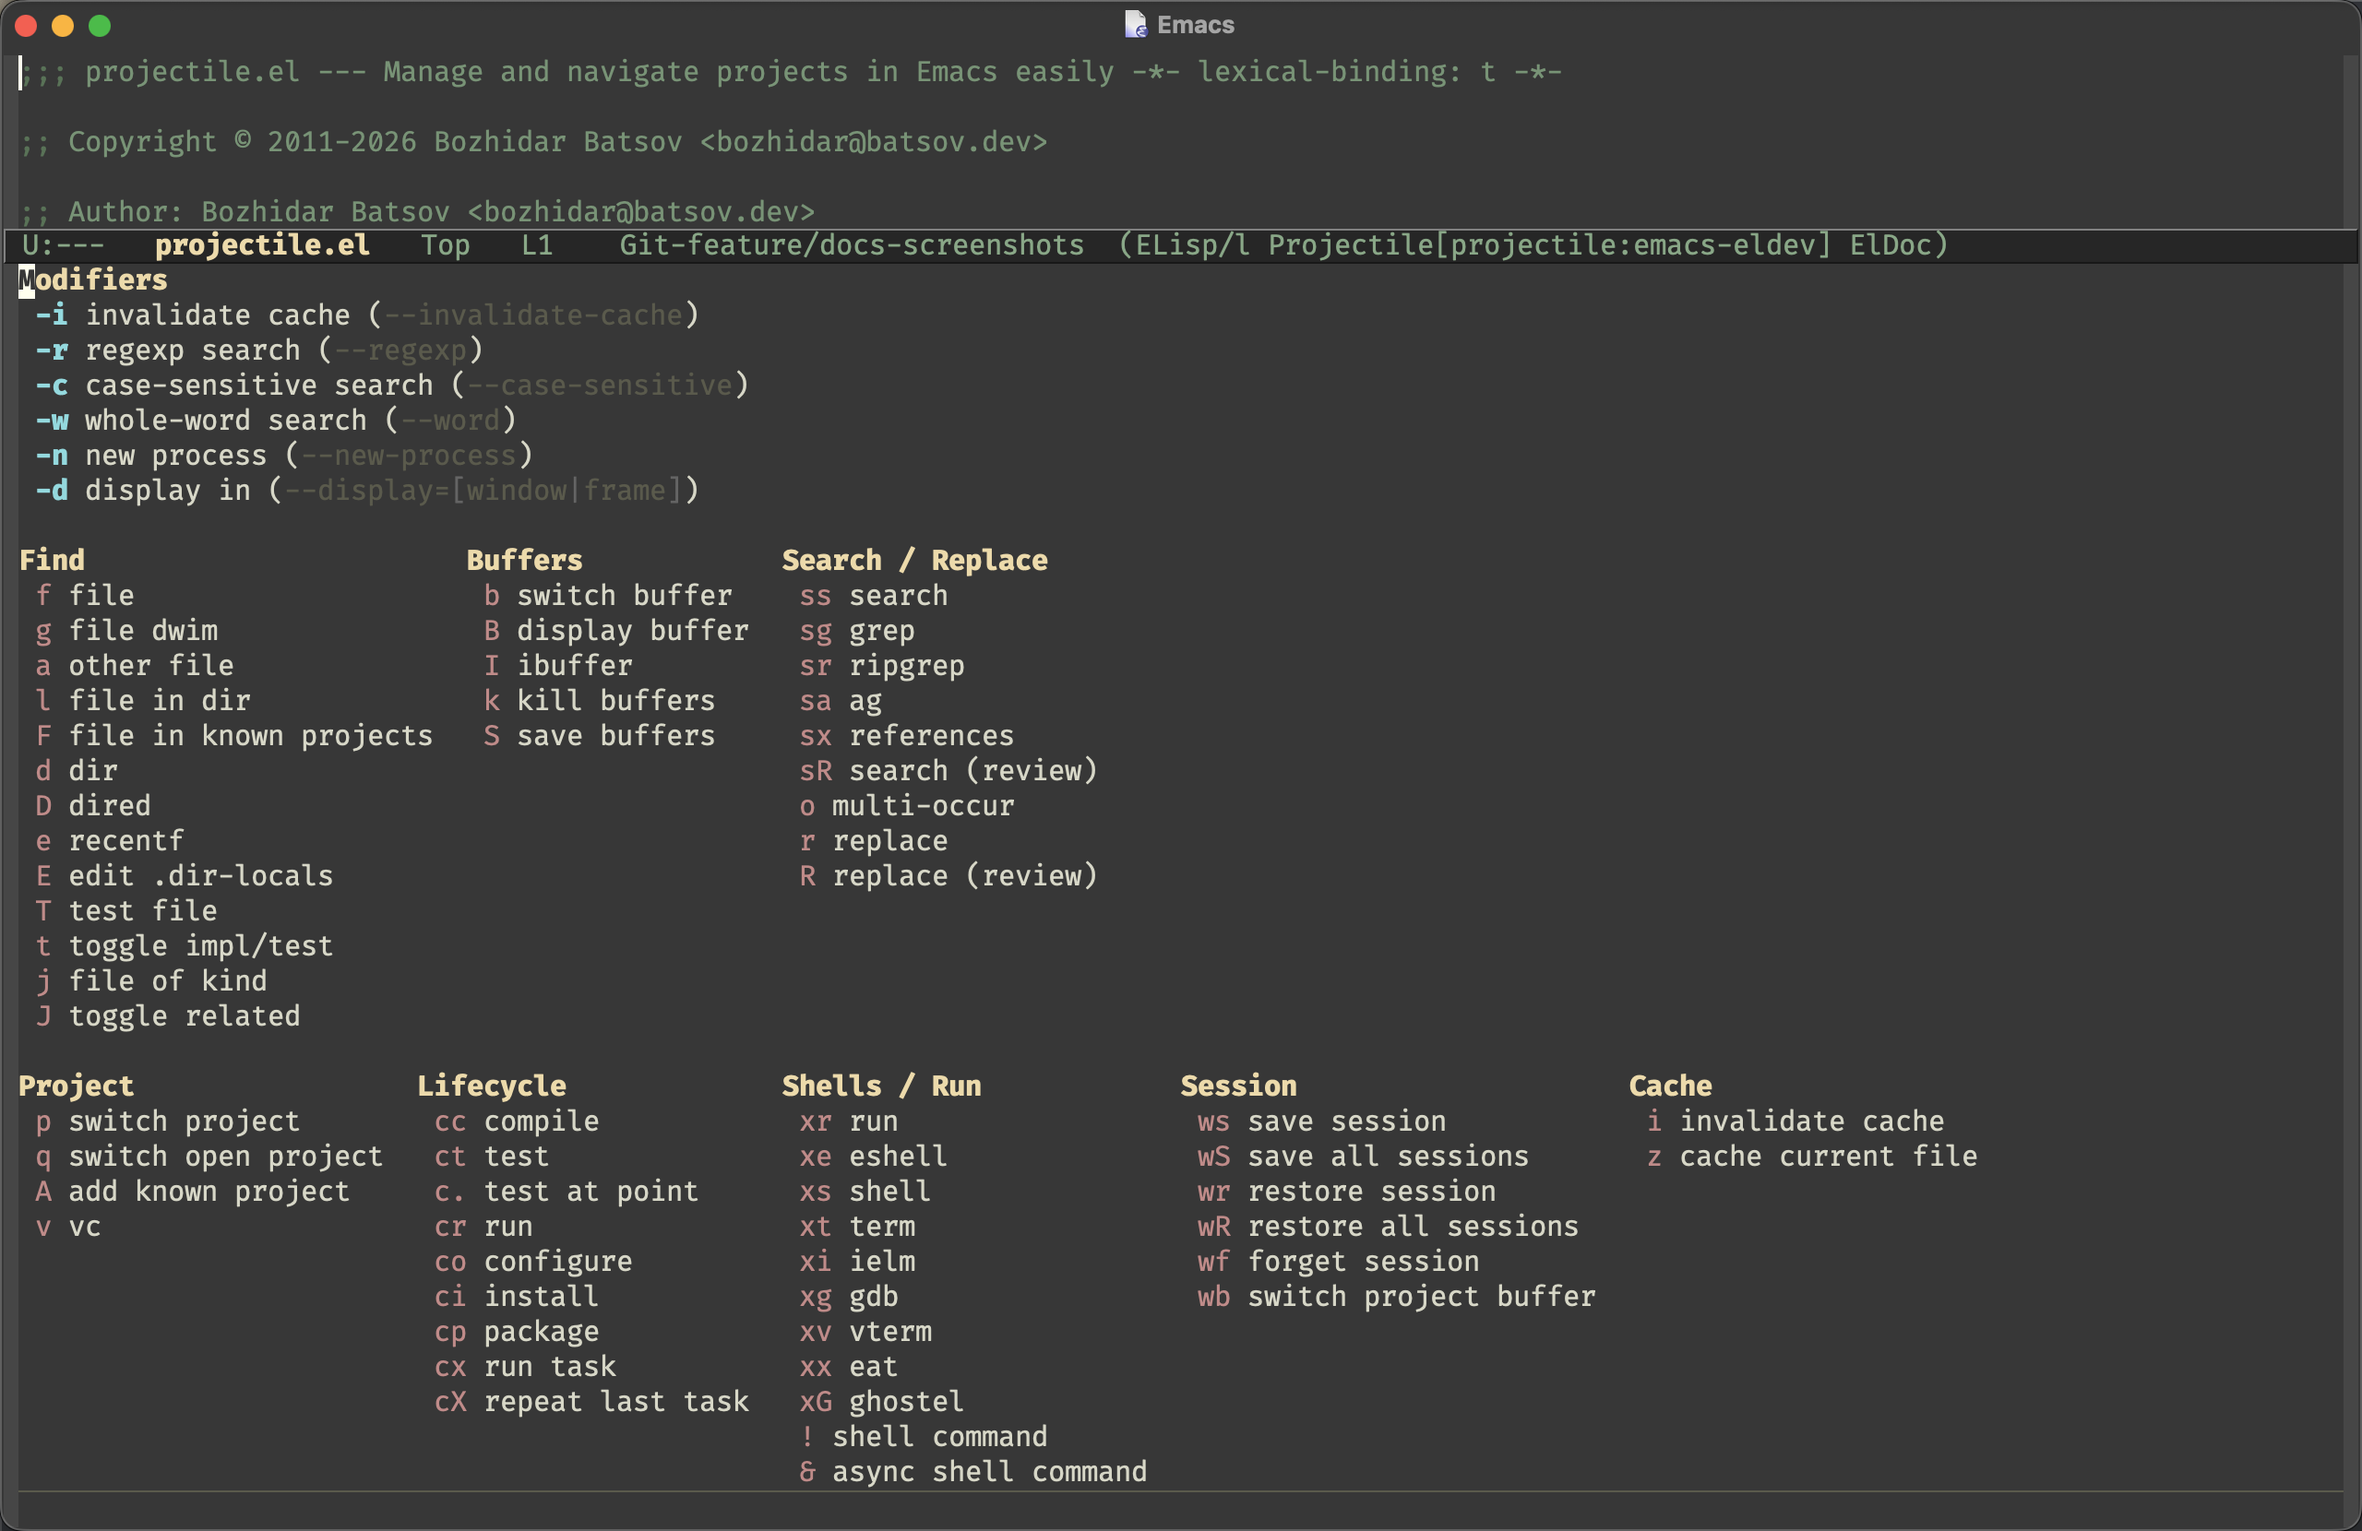
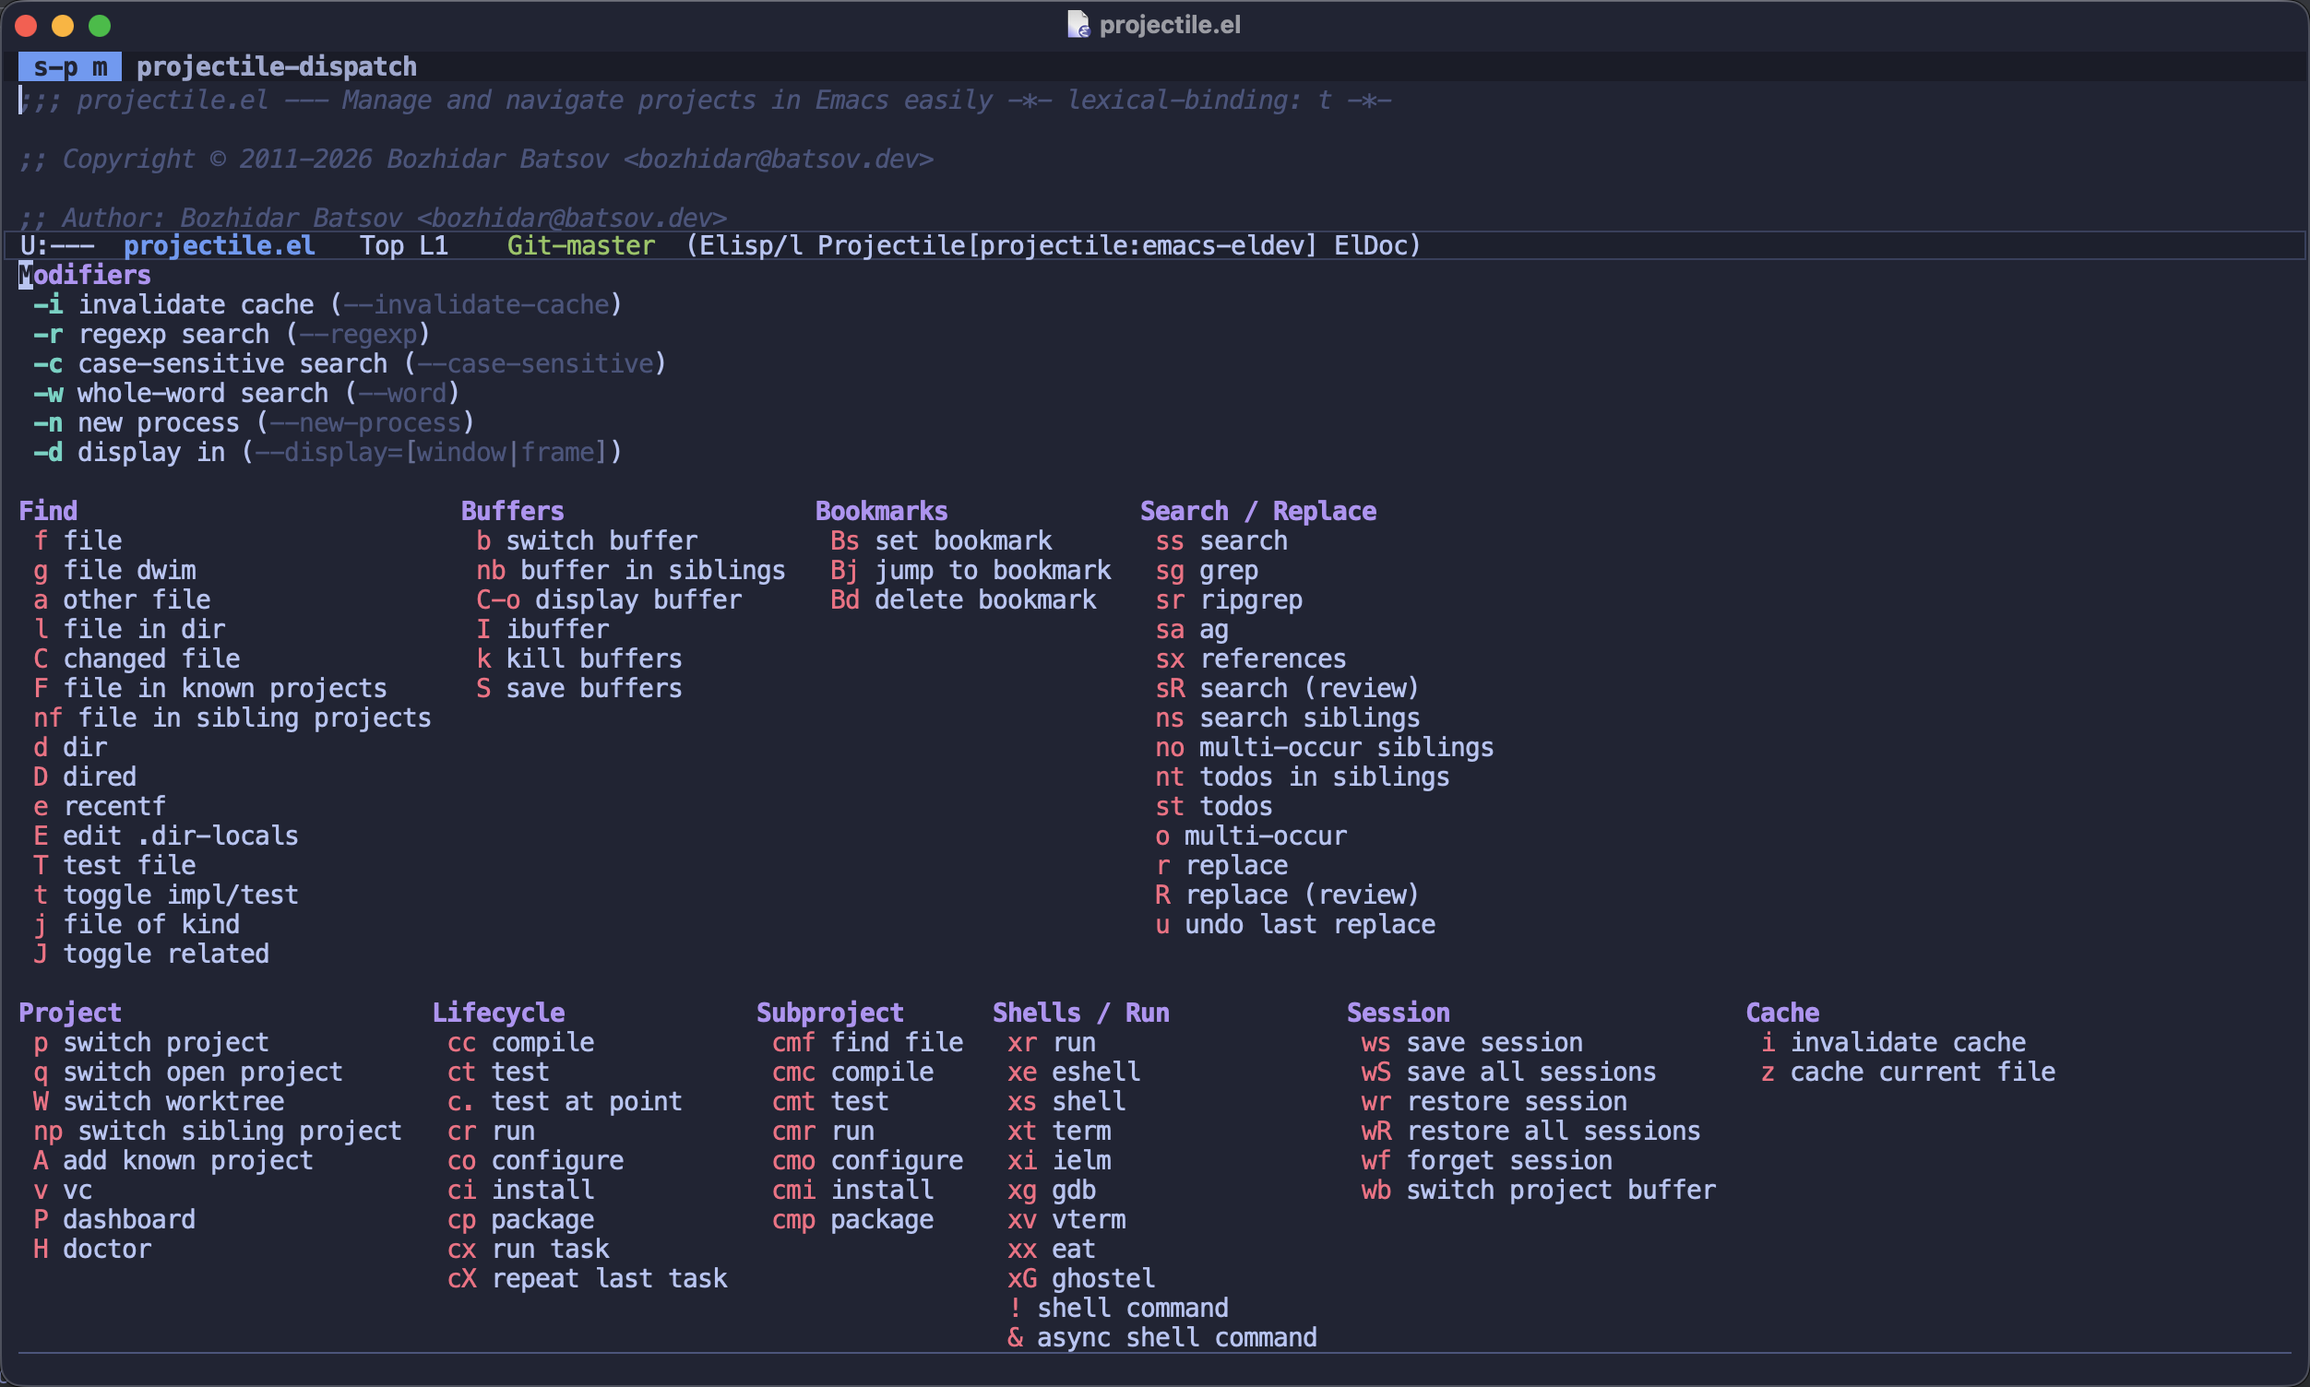
Re-shoot the docs screenshots and gifs
The set had drifted: zenburn against a manual that documents nothing of
the sort, a doctor report claiming 3.3.0, a dispatch menu from before
Bookmarks, Subproject, worktrees and siblings existed, two shots with
*Minibuf-1* in the title bar, and an embark gif with a temp path from
the machine it was captured on baked into the last frame.

Everything is now tokyo-night-storm with vertico and marginalia, and
carries a keycast strip showing the binding that produced what's on
screen. The bindings use the s-p prefix the manual uses in its prose,
so the two agree.

The hero gif was from 2020 and toured a different editor's worth of
Projectile. It's now a tour of what 3.x actually does: find file,
impl/test toggle, a reviewed project-wide replace, the project's tasks,
the dashboard and doctor reports, and a switch into another project.
Also a third of the size it was.

Changed region(s): [[0.0, 0.0, 1.0, 1.0], [0.6853, 0.6875, 0.7165, 0.7188]]

diff --git a/README.md b/README.md
@@ -49,7 +49,7 @@ project to work on, it still requires a lot of time and energy to maintain.
 
 ## Projectile in Action
 
-Here's a glimpse of Projectile in action (using `ivy`):
+Here's a glimpse of Projectile in action (using `vertico` and `marginalia`):
 
 ![Projectile Demo](doc/modules/ROOT/assets/images/projectile-demo.gif)
 
@@ -57,7 +57,13 @@ In this short demo you can see:
 
 * finding files in a project
 * switching between implementation and test
+* reviewing a project-wide replacement before applying it
+* picking from the project's named tasks
+* the project dashboard and the doctor report
 * switching between projects
+
+The strip across the top of the frame shows the keys being pressed and the
+commands they invoked.
 
 ## Quickstart
 
